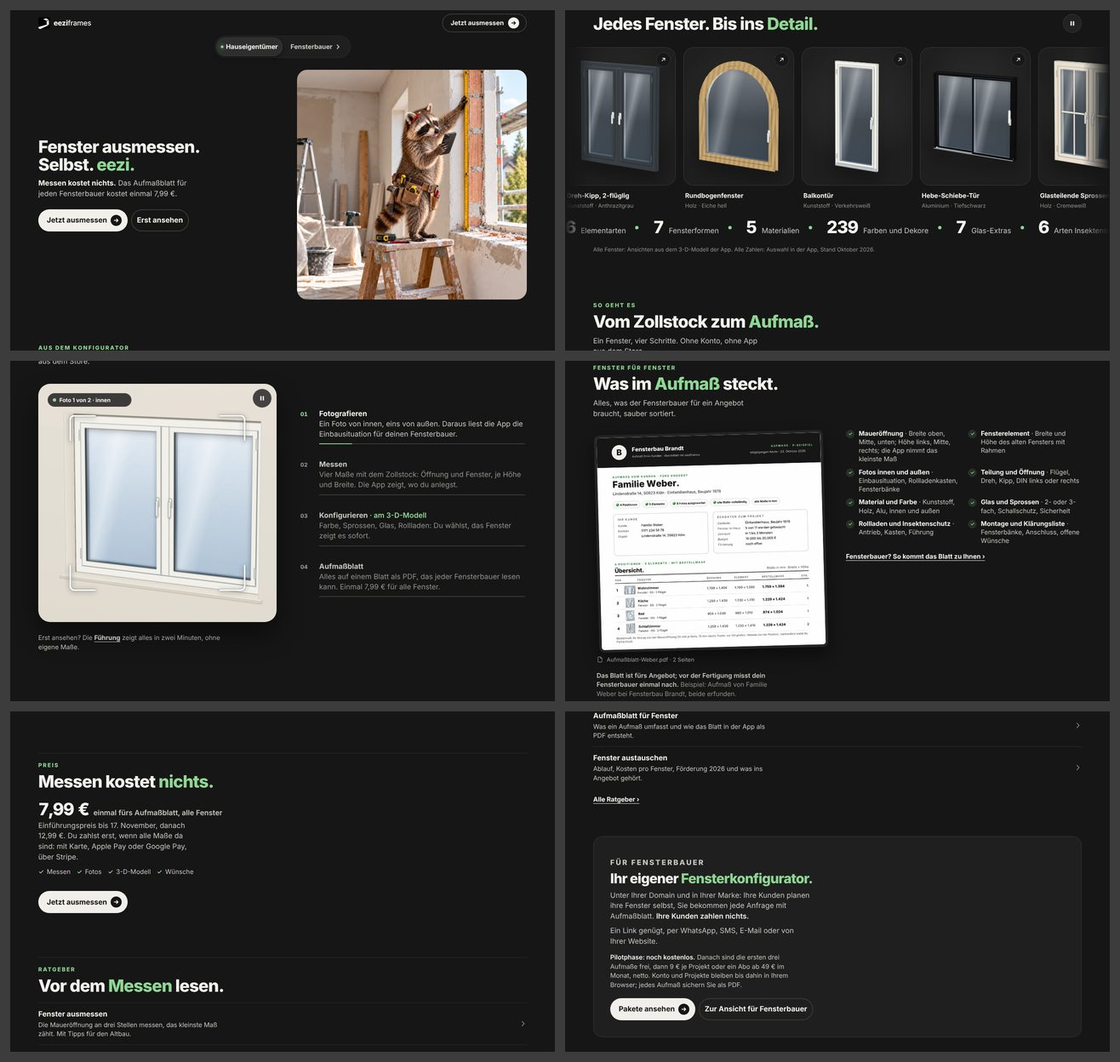
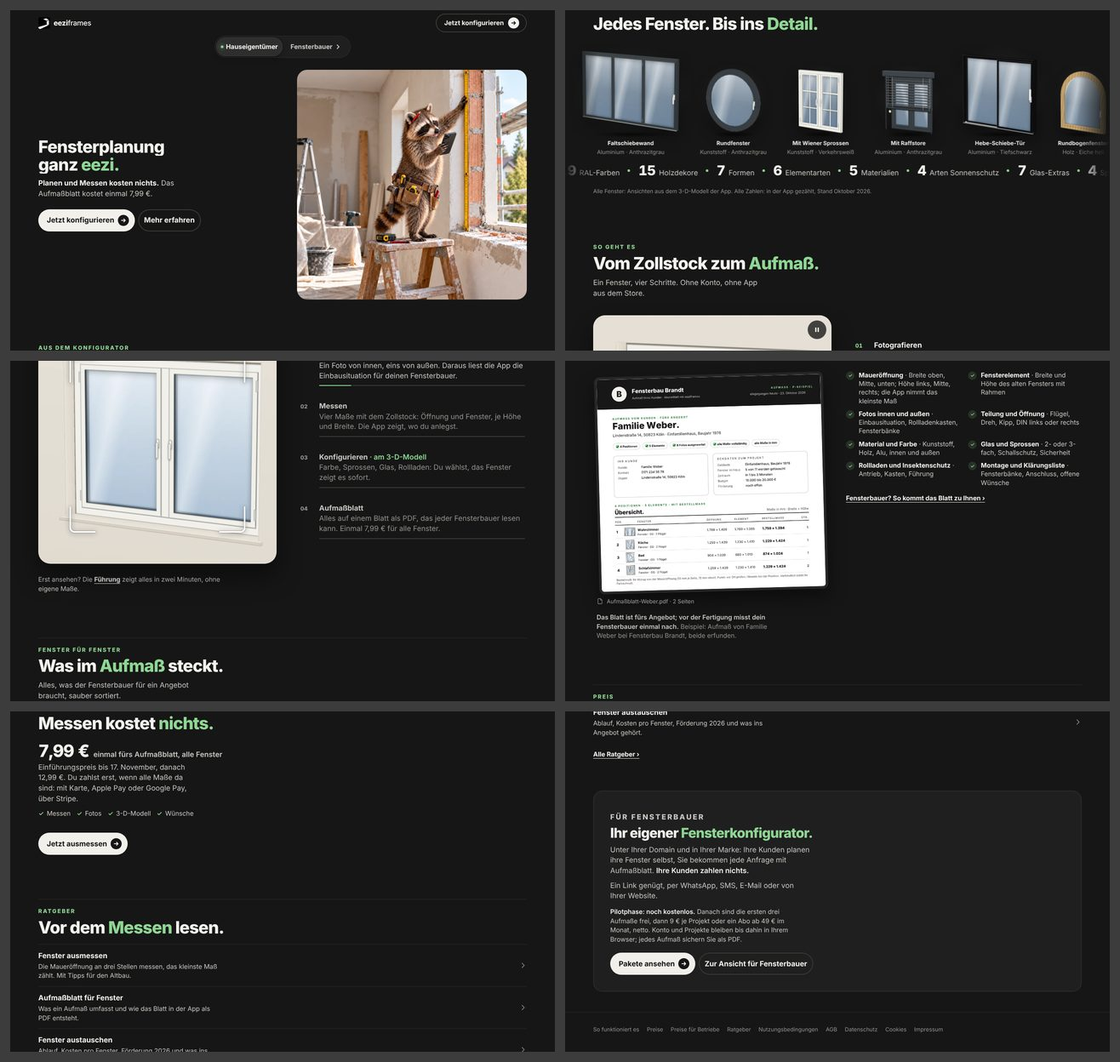
Startseite (Vorschau): Fensterplanung ganz eezi, Band frei schwebend mit Raffstore und Formen, gezählte Fakten
Claude-Session: https://claude.ai/code/session_014C8LaYHw3bh6GgCbsL2BNx

diff --git a/docs/profis/startseite-vorschau/index.html b/docs/profis/startseite-vorschau/index.html
@@ -78,47 +78,40 @@ h2 { margin: 8px 0 0; font-size: 32px; line-height: 1.05; font-weight: 800; lett
 .sub { margin: 12px 0 0; font-size: 17px; color: var(--text2); max-width: 38ch; text-wrap: pretty }
 .haar { height: 1px; background: var(--line); transform-origin: 0 50%; margin-bottom: 18px }
 
-/* Band aus dem Konfigurator: eine Reihe echter Fenster aus dem 3-D-Modell der App, darunter die Fakten; beide laufen langsam und gegenläufig, nur im Bild.
-   Halt-Knopf (WCAG 2.2.2), Finger oder Maus darauf hält weich an. Bei „weniger Bewegung“ steht alles und lässt sich wischen. */
+/* Band aus dem Konfigurator: Fenster aus dem 3-D-Modell der App schweben frei (ohne Kasten) von links nach rechts, darunter die Fakten gegenläufig.
+   Läuft ohne Unterbrechung, nichts zum Anklicken (Wunsch des Inhabers); außerhalb des Bildes steht es still, bei „weniger Bewegung“ steht es und lässt sich wischen. */
 .lauf { padding: 72px 0 8px; overflow: clip }
-.lauf-kopf { display: flex; align-items: flex-end; justify-content: space-between; gap: 16px; padding-bottom: 28px }
-.lauf-halt { flex: 0 0 auto; width: 44px; height: 44px; display: grid; place-items: center; padding: 0; border-radius: 50%; border: 0; box-shadow: inset 0 0 0 1px var(--line2); background: rgba(243, 242, 238, .06); color: var(--text); cursor: pointer; transition: transform 220ms var(--e-out) }
-.lauf-halt:active { transform: scale(.96) }
-.lauf-halt svg { width: 14px; height: 14px }
-.lauf-halt .i-weiter { display: none }
-.lauf-halt[aria-pressed="true"] .i-halt { display: none }
-.lauf-halt[aria-pressed="true"] .i-weiter { display: block }
-.laufband { overflow-x: auto; scrollbar-width: none; overscroll-behavior-x: contain; -webkit-mask-image: linear-gradient(90deg, transparent, #000 5%, #000 95%, transparent); mask-image: linear-gradient(90deg, transparent, #000 5%, #000 95%, transparent) }
+.lauf-kopf { padding-bottom: 20px }
+.laufband { overflow-x: auto; scrollbar-width: none; overscroll-behavior-x: contain; -webkit-mask-image: linear-gradient(90deg, transparent, #000 6%, #000 94%, transparent); mask-image: linear-gradient(90deg, transparent, #000 6%, #000 94%, transparent) }
 .laufband::-webkit-scrollbar { display: none }
 .laufband.bereit { overflow: hidden }
-.spur { --spalt: 14px; display: flex; gap: var(--spalt); width: max-content; margin: 0; padding: 0 var(--spalt) 0 0; list-style: none }
+.spur { --spalt: 26px; display: flex; align-items: flex-end; gap: var(--spalt); width: max-content; margin: 0; padding: 0 var(--spalt) 0 0; list-style: none }
 .laufband.bereit .spur { animation: lauf var(--dauer) linear infinite }
-.laufband.zahlen.bereit .spur { animation-direction: reverse }
+.laufband.bilder.bereit .spur { animation-direction: reverse }
 @keyframes lauf { to { transform: translateX(-50%) } }
-.laufband.bilder { padding: 6px 0 22px }
-.karte { position: relative; display: grid; gap: 3px; width: 220px; text-decoration: none; border-radius: 24px }
-.karte-bild { display: block; aspect-ratio: 4 / 5; border-radius: 24px; overflow: hidden; margin-bottom: 10px; background: radial-gradient(circle at 50% 40%, rgba(241, 240, 234, .10), rgba(241, 240, 234, 0) 64%), var(--surface); box-shadow: inset 0 0 0 1px var(--line2); transition: transform 260ms var(--e-out) }
-.karte-bild img { width: 100%; height: 100%; object-fit: contain; filter: drop-shadow(0 18px 22px rgba(0, 0, 0, .45)) }
-.karte-titel { font-size: 15px; font-weight: 700; padding: 0 4px; white-space: nowrap; overflow: hidden; text-overflow: ellipsis }
-.karte-was { font-size: 13px; color: var(--muted); padding: 0 4px; white-space: nowrap }
-.karte-pfeil { position: absolute; top: 12px; right: 12px; width: 34px; height: 34px; display: grid; place-items: center; border-radius: 50%; background: rgba(22, 22, 22, .7); box-shadow: inset 0 0 0 1px var(--line2); color: var(--text); transition: background 160ms, color 160ms }
-.karte-pfeil svg { width: 16px; height: 16px }
-.karte:active { transform: scale(.98) }
-@media (hover: hover) and (pointer: fine) {
-  .karte:hover .karte-bild { transform: translateY(-6px) }
-  .karte:hover .karte-pfeil { background: var(--cream); color: var(--ground) }
-}
-.zahl { display: flex; align-items: baseline; gap: 12px; white-space: nowrap }
-.zahl-wert { font-size: 32px; font-weight: 800; letter-spacing: -.03em; line-height: 1; font-variant-numeric: tabular-nums }
+.laufband.bilder { padding: 26px 0 18px }
+.el { display: grid; justify-items: center; gap: 2px; text-align: center; user-select: none; -webkit-user-select: none }
+.el-bild { position: relative; display: flex; align-items: flex-end; justify-content: center; height: var(--h); margin-bottom: 12px }
+.el-bild::before { content: ""; position: absolute; left: -18%; right: -18%; top: -12%; bottom: -4%; background: radial-gradient(closest-side, rgba(241, 240, 234, .10), rgba(241, 240, 234, 0)); pointer-events: none }
+.el-bild::after { content: ""; position: absolute; left: 8%; right: 8%; bottom: -10px; height: 14px; border-radius: 50%; background: radial-gradient(closest-side, rgba(0, 0, 0, .55), rgba(0, 0, 0, 0)); pointer-events: none }
+.el-bild img { position: relative; z-index: 1; height: var(--h); width: auto; max-width: none; filter: drop-shadow(0 14px 16px rgba(0, 0, 0, .45)); -webkit-user-drag: none; animation: schweben 6.8s ease-in-out infinite alternate; animation-delay: calc(var(--i, 0) * -1.37s) }
+.lauf.steht .el-bild img { animation-play-state: paused }
+@keyframes schweben { from { transform: translateY(-4px) } to { transform: translateY(4px) } }
+.el.f { --h: 100px } .el.t { --h: 126px }
+.el-titel { font-size: 13px; font-weight: 700; color: var(--text); white-space: nowrap }
+.el-was { font-size: 13px; color: var(--muted); white-space: nowrap }
+.zahl { display: flex; align-items: baseline; gap: 8px; white-space: nowrap }
+.zahl-wert { font-size: 24px; font-weight: 800; letter-spacing: -.02em; line-height: 1; font-variant-numeric: tabular-nums }
 .zahl-label { font-size: 15px; color: var(--text2) }
-.zahl-trenner { width: 8px; height: 8px; border-radius: 50%; background: var(--accent); margin: 0 10px; align-self: center }
-.laufband.zahlen .spur { --spalt: 24px }
+.zahl-trenner { width: 6px; height: 6px; border-radius: 50%; background: var(--accent); margin: 0 4px 0 10px; align-self: center }
+.laufband.zahlen .spur { --spalt: 12px }
 .lauf-fuss { margin: 22px auto 0; font-size: 13px; color: var(--muted) }
 
 /* So geht es: eine Bühne, ein Fenster, vier Takte. Dasselbe Fenster wird fotografiert, löst sich in eine Maßzeichnung auf, wächst zum
    3-D-Modell und landet im Aufmaßblatt (Zeile 1, Wohnzimmer, 1.789 × 1.409 mm). Daneben die vier Schritte mit Fortschritt; Antippen springt.
    Läuft nur im Bild, Halt-Knopf, bei „weniger Bewegung“ zeigt jeder Schritt sein Endbild (Grundzustand jedes Teils = Endbild, die Keyframes
    kommen von vorn). Nur transform und opacity werden animiert, außer stroke-dashoffset der Linien. */
+.so { scroll-margin-top: 12px }
 .so-grid { display: grid; gap: 22px; margin-top: 28px }
 .so-buehne { --t1: 4600ms; --t2: 4800ms; --t3: 5000ms; --t4: 4800ms; position: relative; width: 100%; aspect-ratio: 1; border-radius: 28px; overflow: hidden; isolation: isolate; background: radial-gradient(120% 80% at 28% 0%, rgba(241, 240, 234, .11), rgba(241, 240, 234, 0) 60%), #1b1b1b; box-shadow: inset 0 0 0 1px var(--line2), 0 30px 60px rgba(0, 0, 0, .45) }
 .sz { position: absolute; inset: 0; opacity: 0; transition: opacity 450ms var(--e-io); pointer-events: none }
@@ -360,17 +353,19 @@ h2 { margin: 8px 0 0; font-size: 32px; line-height: 1.05; font-weight: 800; lett
 @media (prefers-reduced-motion: reduce) {
   .an .foto img, .an h1 .zeile > span, .an .lead { animation: none }
   .rev .haar, .rev .kopfzeile > *, .rev .lauf-kopf > *, .rev .laufband, .rev .so-buehne, .rev .so-liste > li, .rev .ablauf-fuss, .rev .medien, .rev .liste, .rev .beispiel, .rev .linkzeile, .rev .preis, .rev .rat, .rev .fb-inhalt { opacity: 1; transform: none; transition: none }
-  .pille, .geist, .pille .pf, .kopf, .karte-bild, .lauf-halt { transition: none }
+  .pille, .geist, .pille .pf, .kopf { transition: none }
+  .el-bild img { animation: none }
   .spur [data-klon] { display: none }
 }
 
 @media (min-width: 720px) {
   .blattblock { grid-template-columns: minmax(0, 1fr) minmax(0, 1fr); gap: 40px }
   .liste { grid-template-columns: 1fr 1fr }
-  .karte { width: 260px }
-  .zahl-wert { font-size: 40px }
+  .el.f { --h: 150px } .el.t { --h: 190px }
+  .spur { --spalt: 48px }
+  .zahl-wert { font-size: 32px }
   .zahl-label { font-size: 17px }
-  .spur { --spalt: 18px }
+  .laufband.zahlen .spur { --spalt: 16px }
 }
 @media (min-width: 900px) {
   /* So geht es: Bühne links, Schritte rechts */
@@ -397,7 +392,7 @@ h2 { margin: 8px 0 0; font-size: 32px; line-height: 1.05; font-weight: 800; lett
 
 <header class="kopf" id="kopfzeile"><div class="wrap">
   <a class="marke" href="#" aria-label="eeziframes, zur Startseite"><svg viewBox="0 0 64 64" aria-hidden="true"><rect width="64" height="64" rx="10" fill="#000"/><g fill="#fff"><path d="M26.4 12.2 44.4 19.7 56.3 15.3 42 6.6Z"/><path d="M45 22 57 17.6V41.9L45 39.8Z"/><path d="M44.2 41 55.9 43.3 11.7 64H10A10 10 0 0 1 0 54Z"/></g><rect x=".5" y=".5" width="63" height="63" rx="9.5" fill="none" stroke="#fff" stroke-opacity=".12"/></svg><span class="wm" translate="no"><b>eezi</b>frames</span></a>
-  <a class="pille" href="#"><span>Jetzt ausmessen</span><span class="pf" aria-hidden="true"><svg viewBox="0 0 16 16" fill="none" stroke-width="2.2" stroke-linecap="round" stroke-linejoin="round"><path d="M3 8h10M9 4l4 4-4 4"/></svg></span></a>
+  <a class="pille" href="#"><span>Jetzt konfigurieren</span><span class="pf" aria-hidden="true"><svg viewBox="0 0 16 16" fill="none" stroke-width="2.2" stroke-linecap="round" stroke-linejoin="round"><path d="M3 8h10M9 4l4 4-4 4"/></svg></span></a>
 </div></header>
 
 <div class="wrap"><nav class="seg" aria-label="Ansicht wählen"><a href="#" aria-current="page">Hauseigentümer</a><a href="#fensterbauer">Fensterbauer<svg class="chev" viewBox="0 0 16 16" aria-hidden="true"><path d="M6 3l5 5-5 5"/></svg></a></nav></div>
@@ -409,21 +404,18 @@ h2 { margin: 8px 0 0; font-size: 32px; line-height: 1.05; font-weight: 800; lett
     <img src="bilder/hero.webp" width="1250" height="1250" alt="Ein Waschbär steht auf einem Tritt und misst mit dem Zollstock die Maueröffnung eines Fensters, in der anderen Pfote das Handy" fetchpriority="high">
   </div></div>
   <div class="text">
-    <h1><span class="zeile"><span>Fenster ausmessen.</span></span><span class="zeile"><span>Selbst. <span class="ak">eezi.</span></span></span></h1>
-    <p class="lead"><b>Messen kostet nichts.</b> Das Aufmaßblatt für jeden Fensterbauer kostet einmal 7,99&nbsp;€.</p>
-    <div class="cta"><a class="pille gross" href="#"><span>Jetzt ausmessen</span><span class="pf" aria-hidden="true"><svg viewBox="0 0 16 16" fill="none" stroke-width="2.2" stroke-linecap="round" stroke-linejoin="round"><path d="M3 8h10M9 4l4 4-4 4"/></svg></span></a><a class="geist" href="#">Erst ansehen</a></div>
+    <h1><span class="zeile"><span>Fensterplanung</span></span><span class="zeile"><span>ganz <span class="ak">eezi.</span></span></span></h1>
+    <p class="lead"><b>Planen und Messen kosten nichts.</b> Das Aufmaßblatt kostet einmal 7,99&nbsp;€.</p>
+    <div class="cta"><a class="pille gross" href="#"><span>Jetzt konfigurieren</span><span class="pf" aria-hidden="true"><svg viewBox="0 0 16 16" fill="none" stroke-width="2.2" stroke-linecap="round" stroke-linejoin="round"><path d="M3 8h10M9 4l4 4-4 4"/></svg></span></a><a class="geist" href="#so" id="mehr">Mehr erfahren</a></div>
   </div>
 </section>
 </div>
 
 <section class="lauf rev" id="fenster" aria-labelledby="lauf-titel">
-  <div class="wrap lauf-kopf">
-    <div><p class="kicker">Aus dem Konfigurator</p><h2 id="lauf-titel">Jedes Fenster. Bis ins <span class="ak">Detail.</span></h2></div>
-    <button class="lauf-halt" type="button" aria-pressed="false" aria-label="Laufbänder anhalten" hidden><svg class="i-halt" viewBox="0 0 16 16" fill="currentColor" aria-hidden="true"><rect x="3" y="2" width="3.5" height="12" rx="1"/><rect x="9.5" y="2" width="3.5" height="12" rx="1"/></svg><svg class="i-weiter" viewBox="0 0 16 16" fill="currentColor" aria-hidden="true"><path d="M4 2.5v11l9.5-5.5z"/></svg></button>
-  </div>
-  <div class="laufband bilder" style="--dauer: 60s"><ul class="spur"><li><a class="karte" href="#"><span class="karte-bild"><img src="bilder/reihe/dk2.webp" width="480" height="600" alt="3-D-Modell aus der App: zweiflügliges Dreh-Kipp-Fenster aus Kunststoff in Anthrazitgrau" loading="lazy" decoding="async"></span><span class="karte-titel">Dreh-Kipp, 2-flüglig</span><span class="karte-was">Kunststoff · Anthrazitgrau</span><span class="karte-pfeil" aria-hidden="true"><svg viewBox="0 0 24 24" fill="none" stroke="currentColor" stroke-width="2.25" stroke-linecap="round" stroke-linejoin="round"><path d="M7 17 17 7M9 7h8v8"/></svg></span><span class="sr">, in der App planen</span></a></li><li><a class="karte" href="#"><span class="karte-bild"><img src="bilder/reihe/rundbogen1.webp" width="480" height="600" alt="3-D-Modell aus der App: Rundbogenfenster aus Holz in Eiche hell" loading="lazy" decoding="async"></span><span class="karte-titel">Rundbogenfenster</span><span class="karte-was">Holz · Eiche hell</span><span class="karte-pfeil" aria-hidden="true"><svg viewBox="0 0 24 24" fill="none" stroke="currentColor" stroke-width="2.25" stroke-linecap="round" stroke-linejoin="round"><path d="M7 17 17 7M9 7h8v8"/></svg></span><span class="sr">, in der App planen</span></a></li><li><a class="karte" href="#"><span class="karte-bild"><img src="bilder/reihe/balkon.webp" width="480" height="600" alt="3-D-Modell aus der App: Balkontür aus Kunststoff in Verkehrsweiß" loading="lazy" decoding="async"></span><span class="karte-titel">Balkontür</span><span class="karte-was">Kunststoff · Verkehrsweiß</span><span class="karte-pfeil" aria-hidden="true"><svg viewBox="0 0 24 24" fill="none" stroke="currentColor" stroke-width="2.25" stroke-linecap="round" stroke-linejoin="round"><path d="M7 17 17 7M9 7h8v8"/></svg></span><span class="sr">, in der App planen</span></a></li><li><a class="karte" href="#"><span class="karte-bild"><img src="bilder/reihe/hst.webp" width="480" height="600" alt="3-D-Modell aus der App: Hebe-Schiebe-Tür aus Aluminium in Tiefschwarz" loading="lazy" decoding="async"></span><span class="karte-titel">Hebe-Schiebe-Tür</span><span class="karte-was">Aluminium · Tiefschwarz</span><span class="karte-pfeil" aria-hidden="true"><svg viewBox="0 0 24 24" fill="none" stroke="currentColor" stroke-width="2.25" stroke-linecap="round" stroke-linejoin="round"><path d="M7 17 17 7M9 7h8v8"/></svg></span><span class="sr">, in der App planen</span></a></li><li><a class="karte" href="#"><span class="karte-bild"><img src="bilder/reihe/sprossekreuz.webp" width="480" height="600" alt="3-D-Modell aus der App: Holzfenster in Cremeweiß mit glasteilenden Sprossen" loading="lazy" decoding="async"></span><span class="karte-titel">Glasteilende Sprossen</span><span class="karte-was">Holz · Cremeweiß</span><span class="karte-pfeil" aria-hidden="true"><svg viewBox="0 0 24 24" fill="none" stroke="currentColor" stroke-width="2.25" stroke-linecap="round" stroke-linejoin="round"><path d="M7 17 17 7M9 7h8v8"/></svg></span><span class="sr">, in der App planen</span></a></li><li><a class="karte" href="#"><span class="karte-bild"><img src="bilder/reihe/trapez.webp" width="480" height="600" alt="3-D-Modell aus der App: trapezförmige Festverglasung aus Aluminium in Anthrazitgrau" loading="lazy" decoding="async"></span><span class="karte-titel">Festverglasung, Trapez</span><span class="karte-was">Aluminium · Anthrazitgrau</span><span class="karte-pfeil" aria-hidden="true"><svg viewBox="0 0 24 24" fill="none" stroke="currentColor" stroke-width="2.25" stroke-linecap="round" stroke-linejoin="round"><path d="M7 17 17 7M9 7h8v8"/></svg></span><span class="sr">, in der App planen</span></a></li><li><a class="karte" href="#"><span class="karte-bild"><img src="bilder/reihe/dreifluegel.webp" width="480" height="600" alt="3-D-Modell aus der App: dreiflügliges Fenster aus Kunststoff im Holzdekor Golden Oak" loading="lazy" decoding="async"></span><span class="karte-titel">Dreh-Kipp, 3-flüglig</span><span class="karte-was">Kunststoff · Golden Oak</span><span class="karte-pfeil" aria-hidden="true"><svg viewBox="0 0 24 24" fill="none" stroke="currentColor" stroke-width="2.25" stroke-linecap="round" stroke-linejoin="round"><path d="M7 17 17 7M9 7h8v8"/></svg></span><span class="sr">, in der App planen</span></a></li><li><a class="karte" href="#"><span class="karte-bild"><img src="bilder/reihe/psk.webp" width="480" height="600" alt="3-D-Modell aus der App: Parallel-Schiebe-Kipp-Tür aus Kunststoff-Alu, innen weiß" loading="lazy" decoding="async"></span><span class="karte-titel">PSK-Tür</span><span class="karte-was">Kunststoff-Alu · innen weiß</span><span class="karte-pfeil" aria-hidden="true"><svg viewBox="0 0 24 24" fill="none" stroke="currentColor" stroke-width="2.25" stroke-linecap="round" stroke-linejoin="round"><path d="M7 17 17 7M9 7h8v8"/></svg></span><span class="sr">, in der App planen</span></a></li><li><a class="karte" href="#"><span class="karte-bild"><img src="bilder/reihe/fsw.webp" width="480" height="600" alt="3-D-Modell aus der App: Faltschiebewand aus Aluminium in DB 703" loading="lazy" decoding="async"></span><span class="karte-titel">Faltschiebewand</span><span class="karte-was">Aluminium · DB 703</span><span class="karte-pfeil" aria-hidden="true"><svg viewBox="0 0 24 24" fill="none" stroke="currentColor" stroke-width="2.25" stroke-linecap="round" stroke-linejoin="round"><path d="M7 17 17 7M9 7h8v8"/></svg></span><span class="sr">, in der App planen</span></a></li><li><a class="karte" href="#"><span class="karte-bild"><img src="bilder/reihe/sprosse.webp" width="480" height="600" alt="3-D-Modell aus der App: zweiflügliges Kunststofffenster in Verkehrsweiß mit Wiener Sprossen" loading="lazy" decoding="async"></span><span class="karte-titel">Mit Wiener Sprosse</span><span class="karte-was">Kunststoff · Verkehrsweiß</span><span class="karte-pfeil" aria-hidden="true"><svg viewBox="0 0 24 24" fill="none" stroke="currentColor" stroke-width="2.25" stroke-linecap="round" stroke-linejoin="round"><path d="M7 17 17 7M9 7h8v8"/></svg></span><span class="sr">, in der App planen</span></a></li></ul></div>
-  <div class="laufband zahlen" style="--dauer: 70s"><ul class="spur"><li class="zahl"><span class="zahl-wert">6</span><span class="zahl-label">Elementarten</span><span class="zahl-trenner" aria-hidden="true"></span></li><li class="zahl"><span class="zahl-wert">7</span><span class="zahl-label">Fensterformen</span><span class="zahl-trenner" aria-hidden="true"></span></li><li class="zahl"><span class="zahl-wert">5</span><span class="zahl-label">Materialien</span><span class="zahl-trenner" aria-hidden="true"></span></li><li class="zahl"><span class="zahl-wert">239</span><span class="zahl-label">Farben und Dekore</span><span class="zahl-trenner" aria-hidden="true"></span></li><li class="zahl"><span class="zahl-wert">7</span><span class="zahl-label">Glas-Extras</span><span class="zahl-trenner" aria-hidden="true"></span></li><li class="zahl"><span class="zahl-wert">6</span><span class="zahl-label">Arten Insektenschutz</span><span class="zahl-trenner" aria-hidden="true"></span></li><li class="zahl"><span class="zahl-wert">124</span><span class="zahl-label">Begriffe erklärt</span><span class="zahl-trenner" aria-hidden="true"></span></li><li class="zahl"><span class="zahl-wert">0&nbsp;€</span><span class="zahl-label">fürs Messen</span><span class="zahl-trenner" aria-hidden="true"></span></li></ul></div>
-  <p class="wrap lauf-fuss">Alle Fenster: Ansichten aus dem 3-D-Modell der App. Alle Zahlen: Auswahl in der App, Stand Oktober 2026.</p>
+  <div class="wrap lauf-kopf"><p class="kicker">Aus dem Konfigurator</p><h2 id="lauf-titel">Jedes Fenster. Bis ins <span class="ak">Detail.</span></h2></div>
+  <div class="laufband bilder" style="--dauer: 44s"><ul class="spur"><li class="el t" style="--i: 0"><span class="el-bild"><img src="bilder/reihe2/fsw.webp" alt="3-D-Modell aus der App: Faltschiebewand aus Aluminium in Anthrazitgrau" loading="lazy" decoding="async" draggable="false"></span><span class="el-titel">Faltschiebewand</span><span class="el-was">Aluminium · Anthrazitgrau</span></li><li class="el f" style="--i: 1"><span class="el-bild"><img src="bilder/reihe2/rund.webp" alt="3-D-Modell aus der App: rundes Fenster aus Kunststoff in Anthrazitgrau" loading="lazy" decoding="async" draggable="false"></span><span class="el-titel">Rundfenster</span><span class="el-was">Kunststoff · Anthrazitgrau</span></li><li class="el f" style="--i: 2"><span class="el-bild"><img src="bilder/reihe2/sprosse.webp" alt="3-D-Modell aus der App: zweiflügliges Fenster in Verkehrsweiß mit Wiener Sprossen" loading="lazy" decoding="async" draggable="false"></span><span class="el-titel">Mit Wiener Sprossen</span><span class="el-was">Kunststoff · Verkehrsweiß</span></li><li class="el f" style="--i: 3"><span class="el-bild"><img src="bilder/reihe2/raffstore.webp" alt="3-D-Modell aus der App: Fenster von außen mit halb heruntergefahrenem Raffstore, Anthrazitgrau" loading="lazy" decoding="async" draggable="false"></span><span class="el-titel">Mit Raffstore</span><span class="el-was">Aluminium · Anthrazitgrau</span></li><li class="el t" style="--i: 4"><span class="el-bild"><img src="bilder/reihe2/hst.webp" alt="3-D-Modell aus der App: Hebe-Schiebe-Tür aus Aluminium in Tiefschwarz" loading="lazy" decoding="async" draggable="false"></span><span class="el-titel">Hebe-Schiebe-Tür</span><span class="el-was">Aluminium · Tiefschwarz</span></li><li class="el f" style="--i: 5"><span class="el-bild"><img src="bilder/reihe2/rundbogen.webp" alt="3-D-Modell aus der App: Rundbogenfenster aus Holz in Eiche hell" loading="lazy" decoding="async" draggable="false"></span><span class="el-titel">Rundbogenfenster</span><span class="el-was">Holz · Eiche hell</span></li><li class="el f" style="--i: 6"><span class="el-bild"><img src="bilder/reihe2/rollladen.webp" alt="3-D-Modell aus der App: dreiflügliges Fenster von außen mit halb heruntergefahrenem Rollladen, Holzdekor Golden Oak" loading="lazy" decoding="async" draggable="false"></span><span class="el-titel">Mit Rollladen</span><span class="el-was">Kunststoff · Golden Oak</span></li><li class="el f" style="--i: 7"><span class="el-bild"><img src="bilder/reihe2/trapez.webp" alt="3-D-Modell aus der App: trapezförmige Festverglasung aus Aluminium in Anthrazitgrau" loading="lazy" decoding="async" draggable="false"></span><span class="el-titel">Festverglasung, Trapez</span><span class="el-was">Aluminium · Anthrazitgrau</span></li><li class="el t" style="--i: 8"><span class="el-bild"><img src="bilder/reihe2/balkon.webp" alt="3-D-Modell aus der App: Balkontür aus Kunststoff in Verkehrsweiß mit Quersprosse" loading="lazy" decoding="async" draggable="false"></span><span class="el-titel">Balkontür</span><span class="el-was">Kunststoff · Verkehrsweiß</span></li><li class="el t" style="--i: 9"><span class="el-bild"><img src="bilder/reihe2/psk.webp" alt="3-D-Modell aus der App: Parallel-Schiebe-Kipp-Tür aus Kunststoff-Alu, innen weiß" loading="lazy" decoding="async" draggable="false"></span><span class="el-titel">PSK-Tür</span><span class="el-was">Kunststoff-Alu · innen weiß</span></li><li class="el f" style="--i: 10"><span class="el-bild"><img src="bilder/reihe2/segment.webp" alt="3-D-Modell aus der App: Segmentbogenfenster in Cremeweiß mit glasteilenden Sprossen" loading="lazy" decoding="async" draggable="false"></span><span class="el-titel">Segmentbogen, Sprossen</span><span class="el-was">Kunststoff · Cremeweiß</span></li></ul></div>
+  <div class="laufband zahlen" style="--dauer: 60s"><ul class="spur"><li class="zahl"><span class="zahl-wert">219</span><span class="zahl-label">RAL-Farben</span><span class="zahl-trenner" aria-hidden="true"></span></li><li class="zahl"><span class="zahl-wert">15</span><span class="zahl-label">Holzdekore</span><span class="zahl-trenner" aria-hidden="true"></span></li><li class="zahl"><span class="zahl-wert">7</span><span class="zahl-label">Formen</span><span class="zahl-trenner" aria-hidden="true"></span></li><li class="zahl"><span class="zahl-wert">6</span><span class="zahl-label">Elementarten</span><span class="zahl-trenner" aria-hidden="true"></span></li><li class="zahl"><span class="zahl-wert">5</span><span class="zahl-label">Materialien</span><span class="zahl-trenner" aria-hidden="true"></span></li><li class="zahl"><span class="zahl-wert">4</span><span class="zahl-label">Arten Sonnenschutz</span><span class="zahl-trenner" aria-hidden="true"></span></li><li class="zahl"><span class="zahl-wert">7</span><span class="zahl-label">Glas-Extras</span><span class="zahl-trenner" aria-hidden="true"></span></li><li class="zahl"><span class="zahl-wert">4</span><span class="zahl-label">Sprossenarten</span><span class="zahl-trenner" aria-hidden="true"></span></li><li class="zahl"><span class="zahl-wert">9</span><span class="zahl-label">Griff-Farben</span><span class="zahl-trenner" aria-hidden="true"></span></li><li class="zahl"><span class="zahl-wert">5</span><span class="zahl-label">Stufen Einbruchschutz</span><span class="zahl-trenner" aria-hidden="true"></span></li><li class="zahl"><span class="zahl-wert">6</span><span class="zahl-label">Arten Insektenschutz</span><span class="zahl-trenner" aria-hidden="true"></span></li><li class="zahl"><span class="zahl-wert">8</span><span class="zahl-label">Maße je Fenster</span><span class="zahl-trenner" aria-hidden="true"></span></li><li class="zahl"><span class="zahl-wert">124</span><span class="zahl-label">Begriffe erklärt</span><span class="zahl-trenner" aria-hidden="true"></span></li><li class="zahl"><span class="zahl-wert">0&nbsp;€</span><span class="zahl-label">fürs Messen</span><span class="zahl-trenner" aria-hidden="true"></span></li></ul></div>
+  <p class="wrap lauf-fuss">Alle Fenster: Ansichten aus dem 3-D-Modell der App. Alle Zahlen: in der App gezählt, Stand Oktober 2026.</p>
 </section>
 
 <div class="wrap">
@@ -610,53 +602,21 @@ h2 { margin: 8px 0 0; font-size: 32px; line-height: 1.05; font-weight: 800; lett
   var io = ('IntersectionObserver' in window) ? new IntersectionObserver(function (es) { es.forEach(function (e) { if (e.isIntersecting) { e.target.classList.add('in'); io.unobserve(e.target); } }); }, { threshold: 0.15 }) : null;
   document.querySelectorAll('.rev').forEach(function (el) { if (io && !ruhig) io.observe(el); else el.classList.add('in'); });
 
-  /* Laufbänder: Inhalt verdoppeln (Klone für Vorleser und Tastatur unsichtbar), laufen nur im Bild, Halt-Knopf, Finger oder Maus darauf hält weich an */
-  var band = document.getElementById('fenster'), knopf = band.querySelector('.lauf-halt'), baender = band.querySelectorAll('.laufband');
+  /* Laufbänder: Inhalt verdoppeln (Klone für Vorleser unsichtbar), laufen ohne Unterbrechung; außerhalb des Bildes und im verdeckten Tab stehen sie still */
+  var band = document.getElementById('fenster'), baender = band.querySelectorAll('.laufband');
   baender.forEach(function (lb) {
     var spur = lb.querySelector('.spur');
-    Array.prototype.slice.call(spur.children).forEach(function (li) {
-      var k = li.cloneNode(true); k.setAttribute('aria-hidden', 'true'); k.setAttribute('data-klon', '');
-      k.querySelectorAll('a, button').forEach(function (a) { a.setAttribute('tabindex', '-1'); });
-      spur.appendChild(k);
-    });
+    Array.prototype.slice.call(spur.children).forEach(function (li) { var k = li.cloneNode(true); k.setAttribute('aria-hidden', 'true'); k.setAttribute('data-klon', ''); spur.appendChild(k); });
   });
   if (!ruhig && document.timeline) {
     baender.forEach(function (lb) { lb.classList.add('bereit'); });
-    knopf.hidden = false;
-    var laeufe = [], sichtbar = false, laeuft = false;
-    baender.forEach(function (lb) {
-      var a = lb.querySelector('.spur').getAnimations()[0]; if (!a) return;
-      a.pause();
-      var l = { a: a, rate: 0, halt: false }; laeufe.push(l);
-      lb.addEventListener('pointerenter', function (e) { if (e.pointerType === 'mouse') { l.halt = true; los(); } });
-      lb.addEventListener('pointerleave', function () { l.halt = false; los(); });
-      lb.addEventListener('pointerdown', function (e) { if (e.pointerType !== 'mouse') { l.halt = true; los(); } });
-      lb.addEventListener('pointerup', function (e) { if (e.pointerType !== 'mouse') setTimeout(function () { l.halt = false; los(); }, 1200); });
-      lb.addEventListener('focusin', function () { l.halt = true; los(); });
-      lb.addEventListener('focusout', function () { l.halt = false; los(); });
-    });
-    knopf.addEventListener('click', function () {
-      var an = !band.classList.contains('pausiert');
-      band.classList.toggle('pausiert', an);
-      knopf.setAttribute('aria-pressed', String(an));
-      knopf.setAttribute('aria-label', an ? 'Laufbänder fortsetzen' : 'Laufbänder anhalten');
-      los();
-    });
-    if ('IntersectionObserver' in window) new IntersectionObserver(function (e) { sichtbar = e[0].isIntersecting; los(); }, { rootMargin: '0px 0px -30% 0px' }).observe(band.querySelector('.laufband.bilder')); else sichtbar = true;
-    document.addEventListener('visibilitychange', los);
-    /* Die Geschwindigkeit läuft weich auf ihr Ziel; steht sie, wird die Animation angehalten, damit außerhalb des Bildes nichts läuft */
-    function los() { if (!laeuft) { laeuft = true; requestAnimationFrame(tick); } }
-    function tick() {
-      var pause = band.classList.contains('pausiert') || !sichtbar || document.hidden, offen = false;
-      laeufe.forEach(function (l) {
-        var ziel = (pause || l.halt) ? 0 : 1;
-        if (ziel > 0 && l.a.playState === 'paused') { l.a.playbackRate = 0.001; l.a.play(); }
-        l.rate += (ziel - l.rate) * 0.08;
-        if (Math.abs(ziel - l.rate) < 0.002) l.rate = ziel; else offen = true;
-        if (l.rate === 0) { if (l.a.playState !== 'paused') l.a.pause(); } else l.a.playbackRate = l.rate;
-      });
-      if (offen) requestAnimationFrame(tick); else laeuft = false;
-    }
+    var laeufe = []; baender.forEach(function (lb) { var a = lb.querySelector('.spur').getAnimations()[0]; if (a) { a.pause(); laeufe.push(a); } });
+    var bandSicht = false;
+    function bandLos() { var an = bandSicht && !document.hidden; band.classList.toggle('steht', !an); laeufe.forEach(function (a) { if (an) a.play(); else a.pause(); }); }
+    band.classList.add('steht');
+    if ('IntersectionObserver' in window) new IntersectionObserver(function (e) { bandSicht = e[0].isIntersecting; bandLos(); }, { rootMargin: '0px 0px -20% 0px' }).observe(band.querySelector('.laufband.bilder'));
+    else { bandSicht = true; bandLos(); }
+    document.addEventListener('visibilitychange', bandLos);
   }
 
   /* So geht es: vier Takte nacheinander, solange die Bühne im Bild ist; der Fortschrittsbalken des laufenden Schritts bestimmt den Wechsel.
@@ -692,6 +652,13 @@ h2 { margin: 8px 0 0; font-size: 32px; line-height: 1.05; font-weight: 800; lett
     else { imBild = true; gestartet = true; so.classList.add('laeuft'); setze(1); sicht(); }
     document.addEventListener('visibilitychange', sicht);
   }
+
+  /* „Mehr erfahren“: zur Bühne „So geht es“, der Ablauf beginnt von vorn */
+  document.getElementById('mehr').addEventListener('click', function (e) {
+    e.preventDefault();
+    so.scrollIntoView({ behavior: ruhig ? 'auto' : 'smooth', block: 'start' });
+    if (!ruhig) { if (!gestartet) { gestartet = true; so.classList.add('laeuft'); } so.classList.remove('halt'); setze(1); }
+  });
 
   /* Kopfzeile: beim Lesen nach unten weg, nach 24 px Hochscrollen zurück (keine Fingerkorrektur lässt sie flackern) */
   var kopf = document.getElementById('kopfzeile'), raf = 0, letztes = window.scrollY, hoch = 0;

diff --git a/docs/profis/2026-10-25-startseite.md b/docs/profis/2026-10-25-startseite.md
@@ -150,3 +150,17 @@ Umgesetzt (Version 4 des Artefakts), Idee „Ein Fenster, vier Takte“ (Leitide
 Gemessen: kein Querscrollen, Pille 592 px, nach dem Auftritt im ersten Bildschirm keine laufende Animation; Bühne pausiert vor dem Sichtbarwerden, beim Hochscrollen aus dem Bild und bei verstecktem Tab.
 
 Hinweis: Die Schritte bündeln die sechs Schritte der App (Start, Fotos, Einzeichnen, Maße, Ergebnis, Wünsche) zu vier.
+
+## Nachtrag 26.10., vierter Wunsch: Band und Kopf (ohne Gremium)
+
+Wünsche des Inhabers: Band von links nach rechts und minimal schneller; vorne Faltschiebewand, rundes Fenster, Fenster mit Sprossen und mit Raffstore (nicht alle mit Raffstore, aber schnell erkennbar); kein langweiliges Holzfenster vorne; keine Kästen, jedes Element schwebt für sich; Elemente etwas kleiner; Fakten selbst recherchieren und enger setzen; nichts anklickbar, kein Anhalten. Kopf: Überschrift „Fensterplanung ganz eezi“, weiße Pille „Jetzt konfigurieren“, darunter „Mehr erfahren“ direkt zur Animation.
+
+Umgesetzt (Version 5 des Artefakts):
+- Band: elf Elemente frei schwebend (Lichtschein und Bodenschatten statt Kasten, leichtes Schweben von 4 px), Reihenfolge Faltschiebewand, Rundfenster, Wiener Sprossen, Raffstore (Außenansicht, Lamellen halb unten), Hebe-Schiebe-Tür, Rundbogen, Rollladen (Außenansicht, halb unten), Trapez, Balkontür, PSK-Tür, Segmentbogen mit Sprossen. Höhe nach Art: Fenster 100 px, Türen 126 px am Telefon (150/190 am Schreibtisch). Läuft von links nach rechts mit rund 47 px/s (vorher 39), Fakten gegenläufig. Keine Links, kein Halt-Knopf, kein Anhalten bei Finger oder Maus; außerhalb des Bildes und im verdeckten Tab steht es still; bei „weniger Bewegung“ steht es und lässt sich wischen (Systemeinstellung, kein Bedienelement).
+- Renderings: docs/profis/werkzeuge/startseite-renderings.mjs (Startbühne der App, frei; Außenansicht über `view: 'outside'`, Behang über `W3D_BEHANG.stand = 0.55`).
+- Fakten, gezählt mit docs/profis/werkzeuge/startseite-fakten.mjs: 219 RAL-Farben, 15 Holzdekore, 7 Formen, 6 Elementarten, 5 Materialien, 4 Arten Sonnenschutz, 7 Glas-Extras, 4 Sprossenarten, 9 Griff-Farben, 5 Stufen Einbruchschutz, 6 Arten Insektenschutz, 8 Maße je Fenster, 124 Begriffe erklärt, 0 € fürs Messen. Zahlen 24 px (Schreibtisch 32), enger gesetzt.
+- Kopf: „Fensterplanung / ganz eezi.“, Satz „Planen und Messen kosten nichts. Das Aufmaßblatt kostet einmal 7,99 €.“ (App: Messen, Fotos, 3-D-Modell und Wünsche kostenlos), Pille „Jetzt konfigurieren“ (auch in der Kopfzeile, ein Name je Handlung), darunter „Mehr erfahren“: springt weich zu „So geht es“ und startet den Ablauf bei Schritt 1.
+
+Gemessen: Pille 592 px, eine Cream-Pille, kein Querscrollen, im ersten Bildschirm nach dem Auftritt keine laufende Animation, Band ohne anklickbare Elemente.
+
+Hinweis Barrierefreiheit: Ein Laufband ohne Halt-Knopf, das länger als 5 Sekunden läuft, verfehlt WCAG 2.2.2 (Pause, Stop, Hide). Abgefedert durch: läuft nur im Bild, steht bei „weniger Bewegung“. Entscheidung des Inhabers; im Regelwerk ultimativ-webdesign steht weiter der Halt-Knopf.
